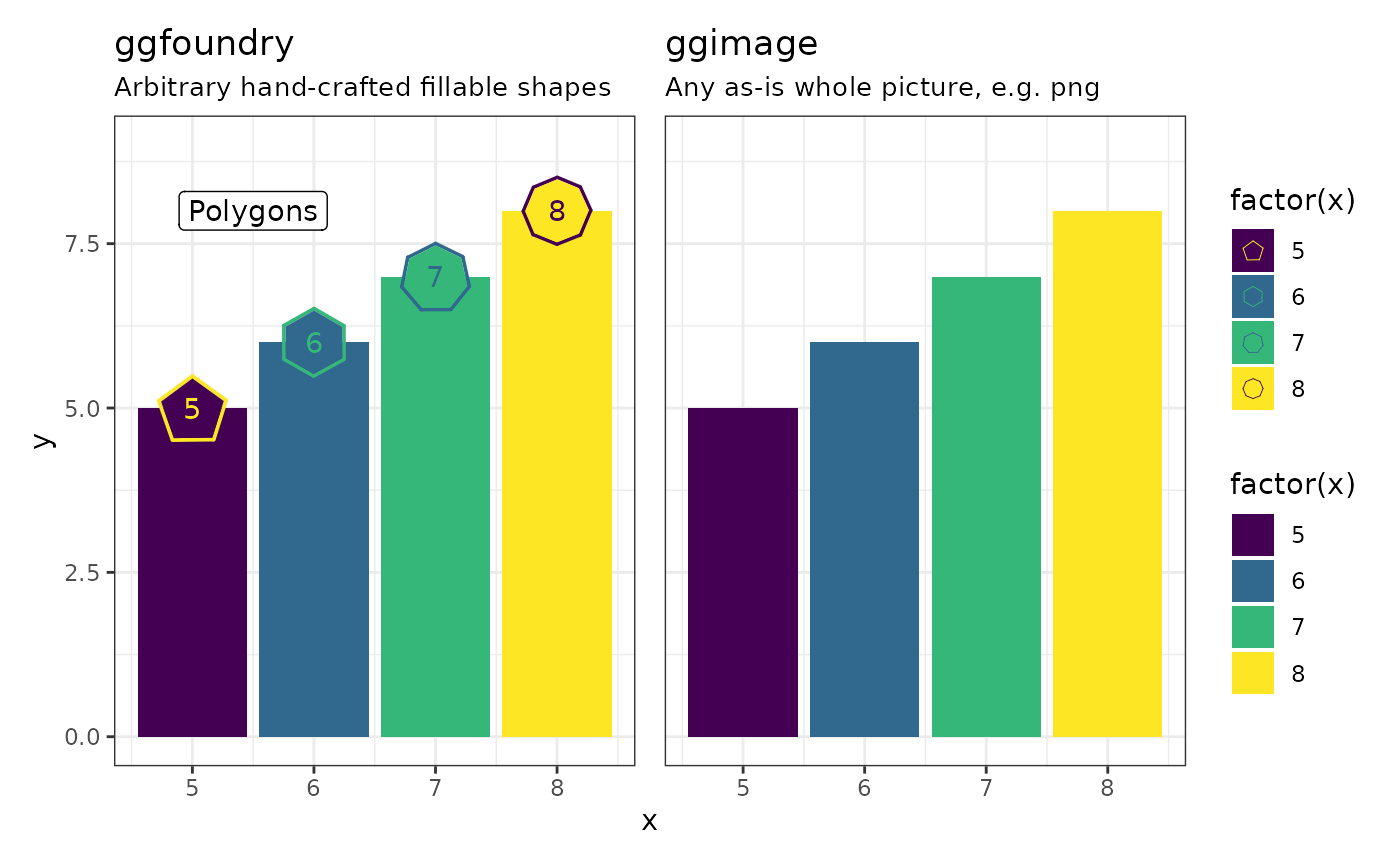
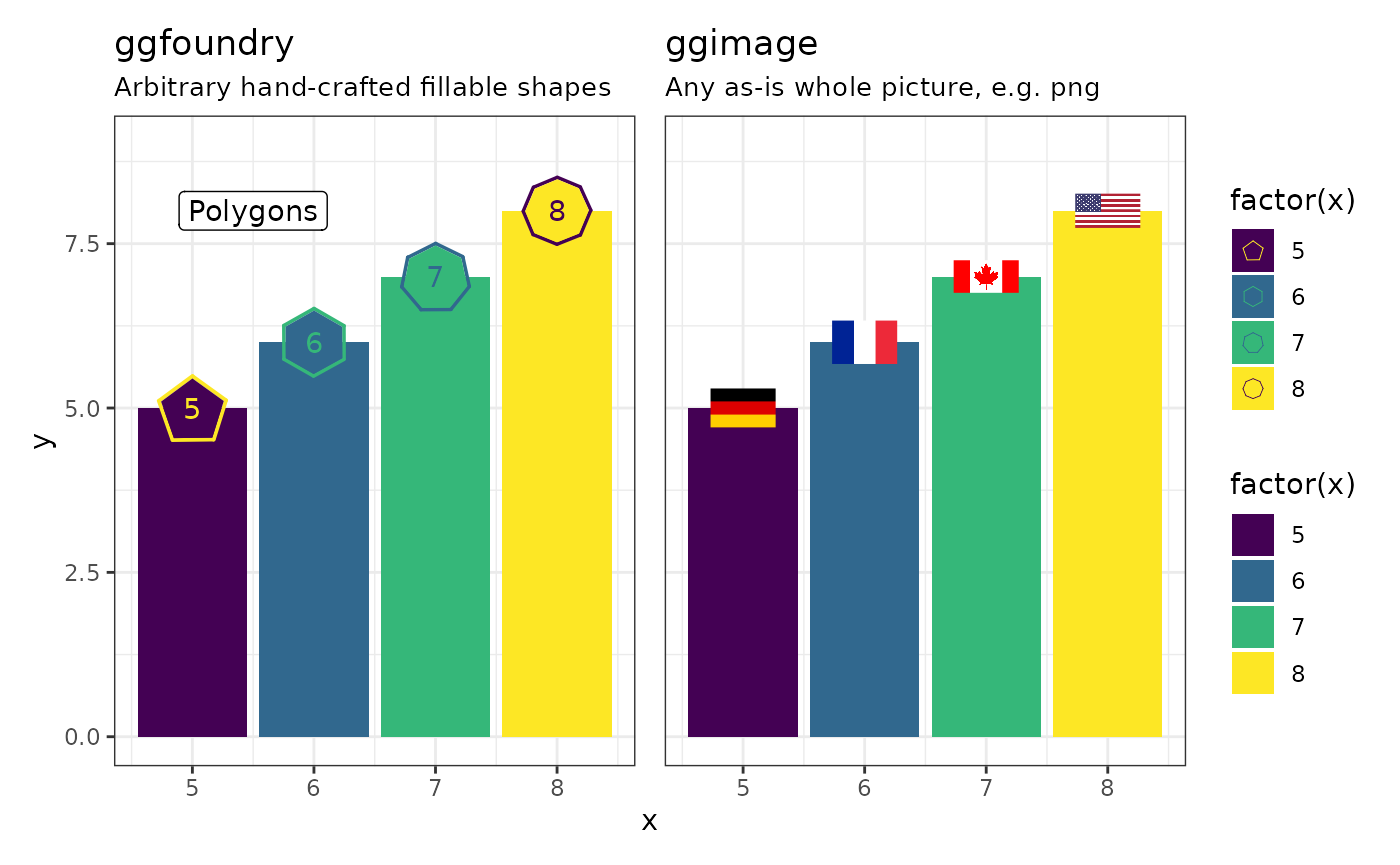
Deploying to gh-pages from @ cgoo4/ggfoundry@a9a0bd19eda51b9a4c9ab87e564fbbdea55c107a 🚀

diff --git a/articles/ggfoundry.html b/articles/ggfoundry.html
@@ -164,20 +164,14 @@ grouping shapes in the documentation and for use in
 <span><span class="kw"><a href="https://rdrr.io/r/base/library.html" class="external-link">library</a></span><span class="op">(</span><span class="va"><a href="https://stringr.tidyverse.org" class="external-link">stringr</a></span><span class="op">)</span></span>
 <span></span>
 <span><span class="va">df</span> <span class="op">&lt;-</span> <span class="fu"><a href="../reference/shapes_cast.html">shapes_cast</a></span><span class="op">(</span><span class="op">)</span> <span class="op">|&gt;</span></span>
-<span>  <span class="fu"><a href="https://dplyr.tidyverse.org/reference/mutate.html" class="external-link">mutate</a></span><span class="op">(</span></span>
-<span>    set <span class="op">=</span> <span class="fu"><a href="https://forcats.tidyverse.org/reference/fct_inorder.html" class="external-link">fct_inorder</a></span><span class="op">(</span><span class="va">set</span><span class="op">)</span>,</span>
-<span>    shape <span class="op">=</span> <span class="fu"><a href="https://forcats.tidyverse.org/reference/fct_inorder.html" class="external-link">fct_inorder</a></span><span class="op">(</span><span class="va">shape</span><span class="op">)</span>,</span>
-<span>    x <span class="op">=</span> <span class="fu"><a href="https://dplyr.tidyverse.org/reference/row_number.html" class="external-link">row_number</a></span><span class="op">(</span><span class="op">)</span>,</span>
-<span>    .by <span class="op">=</span> <span class="va">set</span></span>
-<span>  <span class="op">)</span></span>
+<span>  <span class="fu"><a href="https://dplyr.tidyverse.org/reference/mutate.html" class="external-link">mutate</a></span><span class="op">(</span>x <span class="op">=</span> <span class="fu"><a href="https://dplyr.tidyverse.org/reference/row_number.html" class="external-link">row_number</a></span><span class="op">(</span><span class="op">)</span>, .by <span class="op">=</span> <span class="va">set</span><span class="op">)</span></span>
 <span></span>
 <span><span class="va">df</span> <span class="op">|&gt;</span></span>
 <span>  <span class="fu"><a href="https://ggplot2.tidyverse.org/reference/ggplot.html" class="external-link">ggplot</a></span><span class="op">(</span><span class="fu"><a href="https://ggplot2.tidyverse.org/reference/aes.html" class="external-link">aes</a></span><span class="op">(</span><span class="va">x</span>, <span class="va">set</span><span class="op">)</span><span class="op">)</span> <span class="op">+</span></span>
-<span>  <span class="fu"><a href="https://ggplot2.tidyverse.org/reference/geom_text.html" class="external-link">geom_text</a></span><span class="op">(</span><span class="fu"><a href="https://ggplot2.tidyverse.org/reference/aes.html" class="external-link">aes</a></span><span class="op">(</span>label <span class="op">=</span> <span class="va">shape</span><span class="op">)</span>, nudge_y <span class="op">=</span> <span class="op">-</span><span class="fl">0.5</span>, colour <span class="op">=</span> <span class="st">"grey40"</span>, size <span class="op">=</span> <span class="fl">3</span><span class="op">)</span> <span class="op">+</span></span>
-<span>  <span class="fu"><a href="../reference/geom_casting.html">geom_casting</a></span><span class="op">(</span><span class="fu"><a href="https://ggplot2.tidyverse.org/reference/aes.html" class="external-link">aes</a></span><span class="op">(</span>shape <span class="op">=</span> <span class="va">shape</span><span class="op">)</span>, size <span class="op">=</span> <span class="fl">0.11</span>, fill <span class="op">=</span> <span class="st">"skyblue"</span><span class="op">)</span> <span class="op">+</span></span>
-<span>  <span class="fu"><a href="https://ggplot2.tidyverse.org/reference/scale_manual.html" class="external-link">scale_shape_manual</a></span><span class="op">(</span>values <span class="op">=</span> <span class="fu"><a href="https://rdrr.io/r/base/character.html" class="external-link">as.character</a></span><span class="op">(</span><span class="va">df</span><span class="op">$</span><span class="va">shape</span><span class="op">)</span><span class="op">)</span> <span class="op">+</span></span>
+<span>  <span class="fu"><a href="https://ggplot2.tidyverse.org/reference/geom_text.html" class="external-link">geom_text</a></span><span class="op">(</span><span class="fu"><a href="https://ggplot2.tidyverse.org/reference/aes.html" class="external-link">aes</a></span><span class="op">(</span>label <span class="op">=</span> <span class="va">shape</span><span class="op">)</span>, nudge_y <span class="op">=</span> <span class="op">-</span><span class="fl">0.5</span>, colour <span class="op">=</span> <span class="st">"grey40"</span>, size <span class="op">=</span> <span class="fl">2.5</span><span class="op">)</span> <span class="op">+</span></span>
+<span>  <span class="fu"><a href="../reference/geom_casting.html">geom_casting</a></span><span class="op">(</span><span class="fu"><a href="https://ggplot2.tidyverse.org/reference/aes.html" class="external-link">aes</a></span><span class="op">(</span>shape <span class="op">=</span> <span class="fu"><a href="https://rdrr.io/r/base/AsIs.html" class="external-link">I</a></span><span class="op">(</span><span class="va">shape</span><span class="op">)</span><span class="op">)</span>, size <span class="op">=</span> <span class="fl">0.055</span>, fill <span class="op">=</span> <span class="st">"skyblue"</span><span class="op">)</span> <span class="op">+</span></span>
 <span>  <span class="fu"><a href="https://ggplot2.tidyverse.org/reference/scale_continuous.html" class="external-link">scale_x_continuous</a></span><span class="op">(</span>expand <span class="op">=</span> <span class="fu"><a href="https://ggplot2.tidyverse.org/reference/expansion.html" class="external-link">expansion</a></span><span class="op">(</span>add <span class="op">=</span> <span class="fl">0.5</span><span class="op">)</span><span class="op">)</span> <span class="op">+</span></span>
-<span>  <span class="fu"><a href="https://ggplot2.tidyverse.org/reference/scale_discrete.html" class="external-link">scale_y_discrete</a></span><span class="op">(</span>expand <span class="op">=</span> <span class="fu"><a href="https://ggplot2.tidyverse.org/reference/expansion.html" class="external-link">expansion</a></span><span class="op">(</span>add <span class="op">=</span> <span class="fu"><a href="https://rdrr.io/r/base/c.html" class="external-link">c</a></span><span class="op">(</span><span class="fl">0.7</span>, <span class="fl">1.6</span><span class="op">)</span><span class="op">)</span><span class="op">)</span> <span class="op">+</span></span>
+<span>  <span class="fu"><a href="https://ggplot2.tidyverse.org/reference/scale_discrete.html" class="external-link">scale_y_discrete</a></span><span class="op">(</span>expand <span class="op">=</span> <span class="fu"><a href="https://ggplot2.tidyverse.org/reference/expansion.html" class="external-link">expansion</a></span><span class="op">(</span>add <span class="op">=</span> <span class="fu"><a href="https://rdrr.io/r/base/c.html" class="external-link">c</a></span><span class="op">(</span><span class="fl">0.7</span>, <span class="fl">1</span><span class="op">)</span><span class="op">)</span><span class="op">)</span> <span class="op">+</span></span>
 <span>  <span class="fu"><a href="https://ggplot2.tidyverse.org/reference/labs.html" class="external-link">labs</a></span><span class="op">(</span></span>
 <span>    x <span class="op">=</span> <span class="cn">NULL</span>,</span>
 <span>    y <span class="op">=</span> <span class="cn">NULL</span>,</span>
@@ -186,7 +180,6 @@ grouping shapes in the documentation and for use in
 <span>  <span class="fu"><a href="https://ggplot2.tidyverse.org/reference/ggtheme.html" class="external-link">theme_minimal</a></span><span class="op">(</span><span class="op">)</span> <span class="op">+</span></span>
 <span>  <span class="fu"><a href="https://ggplot2.tidyverse.org/reference/theme.html" class="external-link">theme</a></span><span class="op">(</span></span>
 <span>    text <span class="op">=</span> <span class="fu"><a href="https://ggplot2.tidyverse.org/reference/element.html" class="external-link">element_text</a></span><span class="op">(</span>colour <span class="op">=</span> <span class="st">"grey70"</span><span class="op">)</span>,</span>
-<span>    axis.text.y <span class="op">=</span> <span class="fu"><a href="https://ggplot2.tidyverse.org/reference/element.html" class="external-link">element_text</a></span><span class="op">(</span>angle <span class="op">=</span> <span class="fl">90</span>, hjust <span class="op">=</span> <span class="fl">0.5</span><span class="op">)</span>,</span>
 <span>    axis.text.x <span class="op">=</span> <span class="fu"><a href="https://ggplot2.tidyverse.org/reference/element.html" class="external-link">element_blank</a></span><span class="op">(</span><span class="op">)</span>,</span>
 <span>    axis.ticks.x <span class="op">=</span> <span class="fu"><a href="https://ggplot2.tidyverse.org/reference/element.html" class="external-link">element_blank</a></span><span class="op">(</span><span class="op">)</span>,</span>
 <span>    legend.position <span class="op">=</span> <span class="st">"none"</span></span>

diff --git a/news/index.html b/news/index.html
@@ -62,6 +62,11 @@
 <li>5 shapes added to a new ‘halloween’ set: <code>skeleton</code>, <code>ghost</code>, <code>spiderweb</code>, <code>grimreaper</code> and <code>gravestone</code>. All new shapes retain separate colour and fill layers, including outline-only rendering.</li>
 <li>The quill anchors its ink contact to the plotting coordinate, including after rotation and resizing. Legend keys retain central placement.</li>
 </ul></div>
+<div class="section level3">
+<h3 id="improvements-development-version">Improvements<a class="anchor" aria-label="anchor" href="#improvements-development-version"></a></h3>
+<ul><li>
+<code><a href="../reference/geom_casting.html">geom_casting()</a></code> accepts <code>AsIs</code> shape values, so <code>aes(shape = I(shape))</code> may replace <code><a href="https://ggplot2.tidyverse.org/reference/scale_manual.html" class="external-link">scale_shape_manual()</a></code> when shapes are named in the data. The quill’s ink-contact anchor applies however the shape name reaches the geom.</li>
+</ul></div>
 </div>
     <div class="section level2">
 <h2 class="pkg-version" data-toc-text="0.4.0" id="ggfoundry-040">ggfoundry 0.4.0<a class="anchor" aria-label="anchor" href="#ggfoundry-040"></a></h2><p class="text-muted">CRAN release: 2026-09-27</p>

diff --git a/articles/contrast.html b/articles/contrast.html
@@ -230,8 +230,8 @@ the full image as-is is often the desired outcome.</p>
 <span>  <span class="op">)</span></span>
 <span></span>
 <span><span class="va">p1</span> <span class="op">+</span> <span class="va">p2</span> <span class="op">+</span> <span class="fu"><a href="https://patchwork.data-imaginist.com/reference/plot_layout.html" class="external-link">plot_layout</a></span><span class="op">(</span>guides <span class="op">=</span> <span class="st">"collect"</span>, axes <span class="op">=</span> <span class="st">"collect"</span><span class="op">)</span></span>
-<span><span class="co">#&gt; Warning in doTryCatch(return(expr), name, parentenv, handler): Invalid image</span></span>
-<span><span class="co">#&gt; path or object provided: NA</span></span></code></pre></div>
+<span><span class="co">#&gt; Warning: `httr` is not installed, so remote images are not checked before they</span></span>
+<span><span class="co">#&gt; are downloaded</span></span></code></pre></div>
 <p><img src="contrast_files/figure-html/ggimage-1.png" class="r-plt" alt="" width="100%"></p>
 </div>
 <div class="section level2">

diff --git a/articles/ggfoundry.md b/articles/ggfoundry.md
@@ -69,20 +69,14 @@ library(forcats)
 library(stringr)
 
 df <- shapes_cast() |>
-  mutate(
-    set = fct_inorder(set),
-    shape = fct_inorder(shape),
-    x = row_number(),
-    .by = set
-  )
+  mutate(x = row_number(), .by = set)
 
 df |>
   ggplot(aes(x, set)) +
-  geom_text(aes(label = shape), nudge_y = -0.5, colour = "grey40", size = 3) +
-  geom_casting(aes(shape = shape), size = 0.11, fill = "skyblue") +
-  scale_shape_manual(values = as.character(df$shape)) +
+  geom_text(aes(label = shape), nudge_y = -0.5, colour = "grey40", size = 2.5) +
+  geom_casting(aes(shape = I(shape)), size = 0.055, fill = "skyblue") +
   scale_x_continuous(expand = expansion(add = 0.5)) +
-  scale_y_discrete(expand = expansion(add = c(0.7, 1.6))) +
+  scale_y_discrete(expand = expansion(add = c(0.7, 1))) +
   labs(
     x = NULL,
     y = NULL,
@@ -91,7 +85,6 @@ df |>
   theme_minimal() +
   theme(
     text = element_text(colour = "grey70"),
-    axis.text.y = element_text(angle = 90, hjust = 0.5),
     axis.text.x = element_blank(),
     axis.ticks.x = element_blank(),
     legend.position = "none"

diff --git a/news/index.md b/news/index.md
@@ -13,6 +13,14 @@
   including after rotation and resizing. Legend keys retain central
   placement.
 
+### Improvements
+
+- [`geom_casting()`](https://cgoo4.github.io/ggfoundry/reference/geom_casting.md)
+  accepts `AsIs` shape values, so `aes(shape = I(shape))` may replace
+  [`scale_shape_manual()`](https://ggplot2.tidyverse.org/reference/scale_manual.html)
+  when shapes are named in the data. The quill’s ink-contact anchor
+  applies however the shape name reaches the geom.
+
 ## ggfoundry 0.4.0
 
 CRAN release: 2026-09-27

diff --git a/articles/contrast.md b/articles/contrast.md
@@ -152,8 +152,8 @@ p2 <- p +
   )
 
 p1 + p2 + plot_layout(guides = "collect", axes = "collect")
-#> Warning in doTryCatch(return(expr), name, parentenv, handler): Invalid image
-#> path or object provided: NA
+#> Warning: `httr` is not installed, so remote images are not checked before they
+#> are downloaded
 ```
 
 ![](contrast_files/figure-html/ggimage-1.png)
